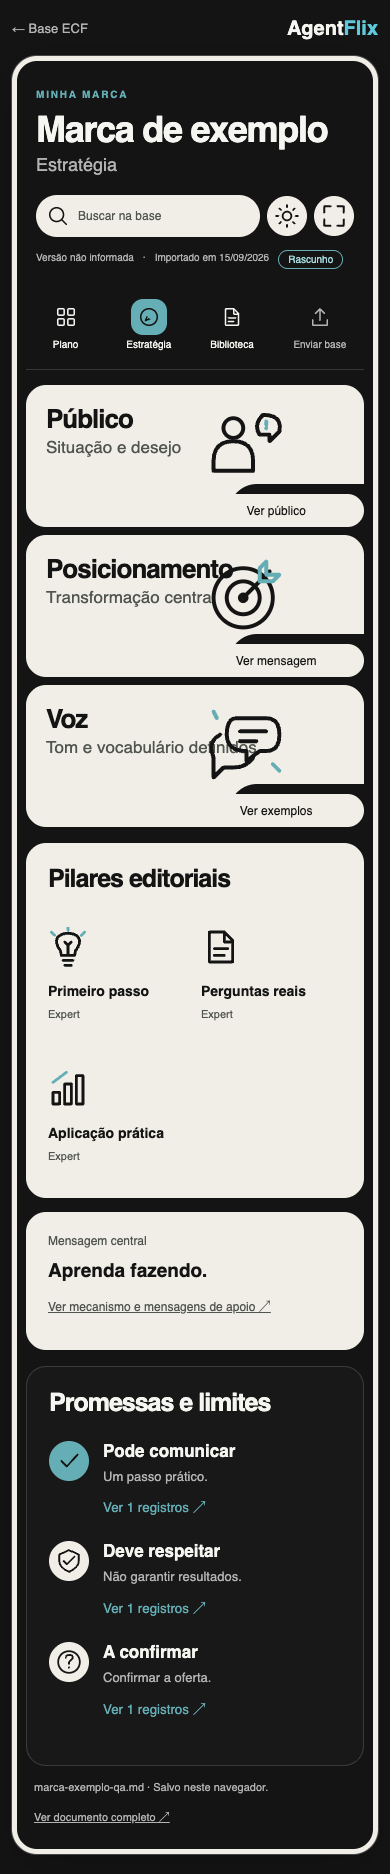
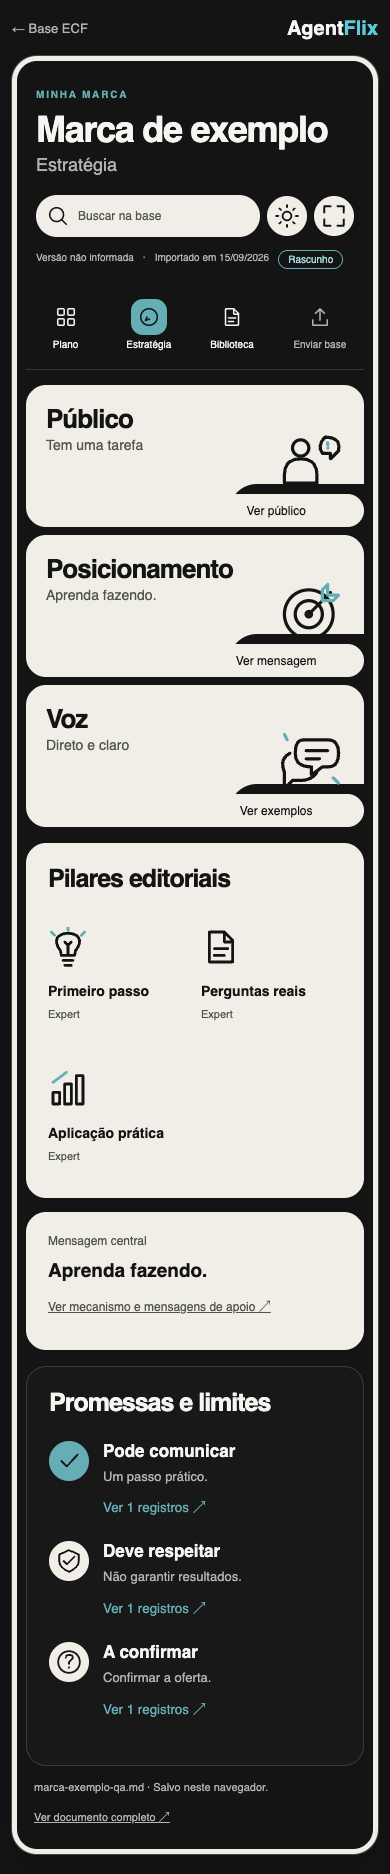
Mostra resumos da marca nos cards de estratégia

diff --git a/site/assistir/hermes-em-operacao/t1e2/minha-marca.css b/site/assistir/hermes-em-operacao/t1e2/minha-marca.css
@@ -4,3 +4,5 @@
 @media(max-width:1050px){body{padding:0 20px 25px}.brand-shell{border-width:7px;border-radius:30px;padding:11px}.brand-header{grid-template-columns:minmax(0,1fr);gap:20px}.header-tools{max-width:100%}.metadata{justify-content:flex-start}.brand-body{grid-template-columns:70px minmax(0,1fr);gap:12px}.rail{padding-right:9px}.rail a,.rail button{font-size:10px}.role-card{padding:20px 17px;height:215px}.role-card h2{font-size:24px}.role-card p{font-size:16px}.role-card>.card-icon{left:30%;top:80px}.card-icon svg{width:90px;height:90px}.card-tag{font-size:11px;padding:0 9px;gap:5px}.bar{gap:2px}.bar i{width:6px}.content-grid{grid-template-columns:1fr}.bank-panel{min-height:0}.bank-topics{grid-template-columns:repeat(3,minmax(0,1fr))}.paper-topic{padding:12px;align-items:flex-start}.paper-topic svg{display:none}.topic-detail dl{display:grid;grid-template-columns:1fr 2fr;gap:12px}.topic-detail dt{margin:0;align-items:start}.topic-detail dd{margin:0}.topic-detail h2{margin-bottom:25px}.topic-list{max-height:400px}}
 @media(max-width:600px){body{padding:0 12px 20px}.page-top{height:56px}.brand-shell{border-width:5px;border-radius:25px;padding:9px}.brand-header{padding:16px 10px 22px}.identity h1{font-size:36px;letter-spacing:-1.3px}.identity>p:last-child{font-size:18px}.toolbar{gap:7px}.icon-button{width:40px;height:40px}.search{padding:0 11px;gap:7px}.search input{height:42px;font-size:12px}.metadata{font-size:10px}.brand-body{display:flex;flex-direction:column;gap:15px}.rail{flex-direction:row;border-right:0;border-bottom:1px solid var(--line);padding:0 0 12px;gap:4px}.rail a,.rail button{min-height:66px;gap:3px}.rail [data-icon]{padding:7px;border-radius:12px}.rail svg{width:22px;height:22px}.rail button{margin:0}.role-grid{gap:8px;grid-template-columns:1fr}.role-card{height:142px;padding:20px;border-radius:20px}.role-card h2{font-size:26px}.role-card p{font-size:17px}.role-card>.card-icon{left:auto;right:23%;top:20px}.card-icon svg{width:79px;height:79px}.role-card:after{width:40%;height:43px}.card-tag{width:52%;min-width:150px;font-size:12px;padding:0 12px;height:33px}.bar i{width:7px}.surface,.dark-panel{padding:22px;border-radius:20px}.entry{min-height:280px;gap:0}.entry h2{font-size:33px}.entry-visual{width:24%;align-self:flex-end;margin-bottom:7px}.entry p{font-size:13px}.bank-topics{grid-template-columns:1fr}.paper-topic svg{display:block}.pillars{grid-template-columns:repeat(2,minmax(0,1fr))}.pillar strong{font-size:14px}.topic-detail dl{display:block}.topic-detail dt{margin-top:20px}.topic-detail dd{margin:7px 0 0 32px}.topic-list{max-height:330px}.surface h2,.dark-panel h2{font-size:25px}.hook strong,.message strong{font-size:19px}.tabs{gap:18px}.tabs button{font-size:13px}.empty{min-height:510px;padding:28px 18px}.empty h2{font-size:40px}.empty>p:not(.eyebrow){font-size:14px}.empty .eyebrow{font-size:9px}.file-hint{font-size:10px}.workspace-footer{align-items:flex-start;flex-direction:column;gap:0;padding:14px 8px 0}.error-panel{padding:22px}.dialog-header h2{font-size:24px}dialog{padding:22px}.topic-row{gap:10px}.topic-row strong{font-size:15px}}
 @media(prefers-reduced-motion:reduce){*{transition:none!important;scroll-behavior:auto!important}}
+
+.strategy-cards .role-card p{font-size:14px;max-width:100%;white-space:nowrap;overflow:hidden;text-overflow:ellipsis}.topic-row>span:last-child,.paper-topic>span,.suggestion,.hook,.message,.topic-detail dd,.workspace-footer p{min-width:0;overflow-wrap:anywhere}@media(max-width:600px){.strategy-cards .role-card p{max-width:68%}.strategy-cards .role-card>.card-icon{top:44px;right:6%}.strategy-cards .card-icon svg{width:65px;height:65px}}

diff --git a/site/assistir/hermes-em-operacao/t1e2/minha-marca.js b/site/assistir/hermes-em-operacao/t1e2/minha-marca.js
@@ -84,8 +84,8 @@
   }
   function strategy(){
     const voice=get(model.voice.find(row=>M.key(get(row,'Aspecto'))==='tom'),'Regra operacional');
-    const cards=[['Público',get(model.audience[0],'Situação'),'audience','Ver público',3],['Posicionamento','Transformação central','target','Ver mensagem',4],['Voz',voice?'Tom e vocabulário definidos':'Tom e vocabulário','founder','Ver exemplos',5]];
-    return '<div class="role-grid">'+cards.map(([name,subtitle,symbol,action,id])=>'<button class="role-card" type="button" data-section="'+id+'"><h2>'+name+'</h2><p>'+(name==='Público'?'Situação e desejo':esc(subtitle))+'</p><span class="card-icon">'+icon(symbol)+'</span><span class="card-tag">'+action+'</span></button>').join('')+'</div><div class="content-grid"><div class="main-stack"><section class="surface"><h2>Pilares editoriais</h2><div class="pillars">'+model.pillars.map((pillar,index)=>'<button class="pillar" type="button" data-pillar="'+index+'">'+icon(['bulb','file','growth','target','compass'][index%5])+'<strong>'+esc(get(pillar,'Pilar'))+'</strong><small>'+esc(get(pillar,'Papel ECF predominante'))+'</small></button>').join('')+'</div></section><section class="surface message"><p>Mensagem central</p><strong>'+esc(fallback(model.message))+'</strong><button type="button" data-section="4">Ver mecanismo e mensagens de apoio ↗</button></section></div><section class="dark-panel"><h2>Promessas e limites</h2>'+[
+    const cards=[['Público',get(model.audience[0],'Situação'),'audience','Ver público',3],['Posicionamento',model.transformation||model.message,'target','Ver mensagem',4],['Voz',voice,'founder','Ver exemplos',5]];
+    return '<div class="role-grid strategy-cards">'+cards.map(([name,subtitle,symbol,action,id])=>'<button class="role-card" type="button" data-section="'+id+'"><h2>'+name+'</h2><p title="'+esc(fallback(subtitle))+'">'+esc(fallback(subtitle))+'</p><span class="card-icon">'+icon(symbol)+'</span><span class="card-tag">'+action+'</span></button>').join('')+'</div><div class="content-grid"><div class="main-stack"><section class="surface"><h2>Pilares editoriais</h2><div class="pillars">'+model.pillars.map((pillar,index)=>'<button class="pillar" type="button" data-pillar="'+index+'">'+icon(['bulb','file','growth','target','compass'][index%5])+'<strong>'+esc(get(pillar,'Pilar'))+'</strong><small>'+esc(get(pillar,'Papel ECF predominante'))+'</small></button>').join('')+'</div></section><section class="surface message"><p>Mensagem central</p><strong>'+esc(fallback(model.message))+'</strong><button type="button" data-section="4">Ver mecanismo e mensagens de apoio ↗</button></section></div><section class="dark-panel"><h2>Promessas e limites</h2>'+[
       ['check','Pode comunicar',model.promises,4],['shield','Deve respeitar',model.limits,4],['question','A confirmar',model.gaps,12]
     ].map(([symbol,title,items,id])=>'<button class="limit-group" type="button" data-section="'+id+'"><span>'+icon(symbol)+'</span><div><strong>'+title+'</strong><p>'+esc(items[0]||'Consulte a seção completa.')+'</p><small>'+(items.length?'Ver '+items.length+' registros':'Abrir seção')+' ↗</small></div></button>').join('')+'</section></div>';
   }

diff --git a/site/assistir/hermes-em-operacao/t1e2/minha-marca.html b/site/assistir/hermes-em-operacao/t1e2/minha-marca.html
@@ -4,14 +4,14 @@
   <meta charset="utf-8">
   <meta name="viewport" content="width=device-width,initial-scale=1">
   <title>Minha marca · AgentFlix</title>
-  <link rel="stylesheet" href="minha-marca.css?v=20260915-1">
+  <link rel="stylesheet" href="minha-marca.css?v=20260915-2">
   <script src="base-editorial-data.js" defer></script>
   <script src="base-editorial-contract.js" defer></script>
   <script src="base-editorial-ecf-scores.js?v=20260914-2" defer></script>
   <script src="base-editorial-bundle.js?v=20260914-2" defer></script>
   <script src="../../../clipboard.js" defer></script>
   <script src="marca-conhecimento-model.js?v=20260915-3" defer></script>
-  <script src="minha-marca.js?v=20260915-2" defer></script>
+  <script src="minha-marca.js?v=20260915-3" defer></script>
 </head>
 <body>
   <a class="skip" href="#workspace">Ir para o conteúdo</a>
